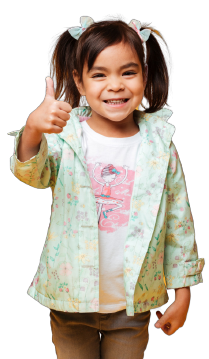
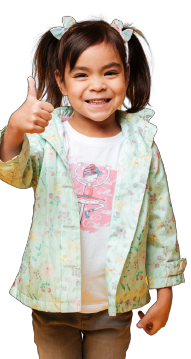
homepg changes

diff --git a/frontend/src/pages/Home/Home.css b/frontend/src/pages/Home/Home.css
@@ -1,5 +1,5 @@
 @import url('https://fonts.googleapis.com/css2?family=Barlow+Condensed:wght@200&family=Roboto&family=Titillium+Web:wght@200&display=swap');
-
+@import url('https://fonts.googleapis.com/css2?family=Dongle&family=Fredoka:wght@600&family=Poppins:wght@500&family=Signika+Negative:wght@500;600&display=swap');
 .home{
     width: 100%;  
     padding: 10px;
@@ -38,11 +38,11 @@
 }
 
 .homeSection1::before {
-    margin-top: 100px;
+    margin-top:71px;
     content: "";
     position: absolute;
     background: url('../../images/16455786_05sa_ldnn_2106179.jpg') center center/cover;
-    height: 640px;
+    height: 650px;
     top: 0px;
     left: 0px;
     width: 100%;
@@ -76,12 +76,12 @@
 .allkids{
     position: absolute;
     right: 0px;
-    top: 400px;
+    top: 340px;
 }
 .homeimg{
     /* border-radius: 20px; */
     /* max-width: 100%; */
-    height: 340px;
+    height: 380px;
     /* height: 340px; */
     margin: 0;
     padding: 0;
@@ -95,19 +95,43 @@
 
 .homeTitle{
     font-size: 50px;
-    font-weight:900px;
-    font-family: 'Barlow Condensed', sans-serif;
+    font-weight:1000px;
+    color: purple;
+    color: rgb(145, 4, 106);
+
+    /* font-family: 'Barlow Condensed', sans-serif;
     font-family: 'Roboto', sans-serif;
-    font-family: 'Titillium Web', sans-serif;
+    font-family: 'Titillium Web', sans-serif; */
+    margin: 10px;
+    margin-right: 16px;
+    margin-bottom: 40px;
+    /* margin: 0px; */
+    font-family: 'Fredoka', sans-serif;
+}
+.homeTitle2{
+    font-size: 55px;
+    font-weight:1000px;
+    color: purple;
+    color: rgb(196, 35, 151);
+    /* font-family: 'Barlow Condensed', sans-serif;
+    font-family: 'Roboto', sans-serif;
+    font-family: 'Titillium Web', sans-serif; */
+    margin: 10px;
+    position: absolute;
+    top: 80px;
+    font-family: 'Fredoka', sans-serif;
 }
 
 .homeText{
     padding: 20px;
     flex: 5.5;
+    margin-right: 700px;
     margin-left: 50px;
     display: flex;
     flex-direction: column;
     justify-content: center;
+    /* background-color: rgba(255, 165, 0,0.1); */
+    
 }
 
 .homeText3{
@@ -121,12 +145,13 @@
 }
 
 .explore{
-    background-color: rgb(255, 166, 0);
+    background-color: orange;
     border: 0px;
-    padding: 20px;
-    font-size: larger;
+    padding: 18px  24px;
+    font-size: 28px;
     color: white;
     border-radius: 15px;
+    font-family: 'Signika Negative', sans-serif;
 }
 
 /* cards css */

diff --git a/frontend/src/components/Navbar/Navbar2.css b/frontend/src/components/Navbar/Navbar2.css
@@ -3,7 +3,9 @@
 @import url('https://fonts.googleapis.com/css2?family=Rubik:wght@500&display=swap');
 
 .navbar2 {
-    background-color: rgba(255, 255, 255,0.4);
+    /* background-color: rgb(196, 35, 151); */
+    /* background-color: rgb(94, 217, 224); */
+    background-color:rgb(246, 236, 224);
     letter-spacing: 1px;
     color: rgba(50,126,94,255);
     align-items: center;
@@ -26,17 +28,20 @@
 
 nav a{
     text-decoration: none;
-    color: black;
+    color: white;
 }
 
 nav ul li{
+    background-color: rgba(34,72,126,255);
+    background-color: orange;
+    color: white;
         list-style: none;
-        padding: 0px 14px;
+        padding: 6px 14px;
         margin-right: 30px;
         font-size: 115%;
         font-weight: 400;
         display: inline-block;
-        border-radius: 1rem;
+        border-radius: .6rem;
 }
 
 nav ul{
@@ -72,4 +77,18 @@ nav ul{
 
 .logout-btn{
     color: black;
+}
+
+@-webkit-keyframes shake{
+    from{
+        -webkit-transform:rotate(4deg);
+    }
+    to{
+        -webkit-transform: rotate(-4deg);
+        -webkit-transform-origin:center center ;
+    }
+}
+
+nav ul li:hover{
+    -webkit-animation: shake .2s ease-in-out .1s infinite alternate;
 }

diff --git a/frontend/src/pages/Home/HomePage.jsx b/frontend/src/pages/Home/HomePage.jsx
@@ -33,6 +33,7 @@ export default function Home() {
       <div className="homeWrapper">
         {/* main home page content */}
         <section className="homeSection1">
+          <h1 className="homeTitle2">Play, Learn, and Advocate.</h1>
         {/* <video autoPlay loop muted id="background-video">
         <source src={videobg} type="video/mp4" />
         Your browser does not support the video tag.
@@ -40,7 +41,7 @@ export default function Home() {
         {/* <img src={animImg1} alt="home img" className="animImg1" /> */}
           <div className="homeText">
             {/* <h2>Best way to learn from anywhere.</h2> */}
-            <h1 className="homeTitle">Learn with fun on any schedule</h1>
+            <h1 className="homeTitle">Empowering Kids for a Just Tomorrow! </h1>
             {/* <p>
               A global knowlege platform for kids between 8-16 to make them
               aware of their rights.

diff --git a/frontend/src/components/Navbar/Navbar2.jsx b/frontend/src/components/Navbar/Navbar2.jsx
@@ -49,6 +49,7 @@ export default function Navbar2() {
           </button>
         </>
       </div>
+      {/* <br /> */}
     </nav>
   );
 }
